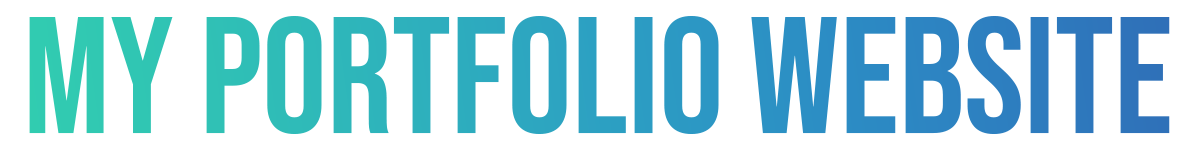
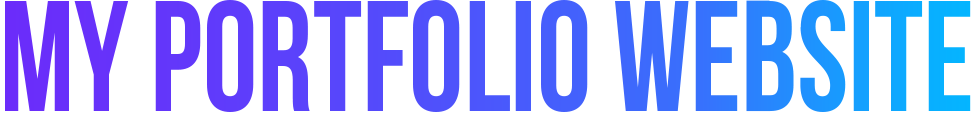
feat: navbar & home

diff --git a/src/styles/pages/_home.scss b/src/styles/pages/_home.scss
@@ -1,0 +1,98 @@
+.home__container {
+    width: 100%;
+    height: 100%;
+
+    background: transparent;
+    backdrop-filter: blur(10px);
+
+    display: flex;
+    justify-content: center;
+    align-items: center;
+
+    .home__content {
+        width: 70%;
+        height: 100%;
+
+        display: flex;
+        flex-direction: column;
+        justify-content: center;
+        text-transform: uppercase;
+
+        .home---name {
+            font-size: 93px;
+            line-height: 100px;
+            text-indent: -4px;
+        }
+
+        .home---text {
+            font-size: 55px;
+        }
+
+        .content__item {
+            display: flex;
+            align-items: center;
+            margin-top: 20px;
+
+            .item__3D-container {
+                position: relative; 
+                margin-left: 20px;
+                perspective: 1000;
+                transform-style: preserve-3d;                
+                animation: rotate 8s ease-in infinite;
+              
+                @keyframes rotate {
+                    0% {
+                        transform: rotateX(0deg);
+                    }
+                    25% {
+                        transform: rotateX(90deg);
+                    }
+                    50% {
+                        transform: rotateX(180deg);
+                    }
+                    75% {
+                        transform: rotateX(270deg);
+                    }
+                    100% {
+                        transform: rotateX(360deg);
+                    }
+                }
+              
+                div {
+                    display: flex;
+                    justify-content: center;
+                    align-items: center;
+                    position: absolute;
+                    height: 50px;
+                    width: 295px;
+                    padding: 10px 30px;
+                    margin: -35px 0;
+                    text-align: center;
+                    font-size: 50px;
+                    cursor: default;
+                    &:nth-child(1) {
+                        transform: rotateX(360deg) translateZ(35px);
+                        background: #6B2CFA;
+                    }
+                    
+                    &:nth-child(2) {
+                        transform: rotateX(270deg) translateZ(35px);
+                        background: #3a6efc;
+                    }
+                    
+                    &:nth-child(3) {
+                        transform: rotateX(180deg) translateZ(35px);
+                        background: #1b97fe;
+                    }
+                    
+                    &:nth-child(4) {
+                        transform: rotateX(90deg) translateZ(35px);
+                        background: #04b5ff;
+                    }                
+                }              
+            } 
+        }
+              
+    }
+    
+}

diff --git a/src/pages/Portfolio.js b/src/pages/Portfolio.js
@@ -1,0 +1,36 @@
+import React, { useEffect, useState, useRef } from "react";
+
+import Home from "./subpages/Home";
+import Content from "./subpages/Content";
+import Navbar from "../components/navigation/Navbar";
+
+const Portfolio = () => {
+
+    const home = useRef(null);
+
+    const onScroll = () => {
+        window.removeEventListener('scroll', onScroll);
+        let x = document.scrollTop;
+        x = 6-x/50;
+        if(x<0) x=0;
+        console.log(x);
+        // home.current.style.backdrop-filter = "blur("+x+"px)";
+        window.addEventListener('scroll', onScroll);
+    }
+    return (
+        <>
+            <Navbar />
+            <div className="section__container" onScroll={() => onScroll()}>
+                <section className="section">
+                    <Home home={home}/>
+                </section>
+
+                <section className="section">
+                    <Content />
+                </section>
+            </div>
+        </>
+    )
+}
+
+export default Portfolio;

diff --git a/src/pages/subpages/Home.js b/src/pages/subpages/Home.js
@@ -1,0 +1,25 @@
+import React from 'react';
+import Button from '../../components/generics/Button';
+
+const Home = ({home}) => {
+    return (
+        <div className="home__container" ref={home}>
+            <div className="home__content">
+                <p className="bold home---text">Hi my name is</p>
+                <p className="bold home---name">Malek.</p>
+                <div className="content__item">
+                    <p className="bold home---text">I'm a</p>
+                    <div className="item__3D-container">
+                        <div className="bold">Developer</div>
+                        <div className="bold">Designer</div>
+                        <div className="bold">TECH FAN</div>
+                        <div className="bold">Freelancer</div>
+                    </div>
+                </div>
+                <Button text="About me" onClick={() => console.log("e")}/>
+            </div>
+        </div>
+    );
+};
+
+export default Home;

diff --git a/src/styles/_settings.scss b/src/styles/_settings.scss
@@ -1,0 +1,40 @@
+@import url('https://fonts.googleapis.com/css2?family=Open+Sans:wght@300;400;500;600;700;800&display=swap');
+
+$color-purple: #6b2cfa;
+$color-blured-purple: rgba(107, 44, 250, 50%);
+$color-blue: #04b5ff;
+$color-dark: #0b0000;
+$font: 'Open Sans', sans-serif;
+
+* {
+    margin: 0;
+    padding: 0;
+    font-family: $font;
+    color: white;
+
+    &::selection {
+        background-color: $color-purple;
+    }
+}
+
+.App,
+#root {
+    width: 100%;
+    height: 100%;
+}
+
+body {
+    background: url(../assets/Background.png) no-repeat center center fixed;
+    -moz-background-size: cover;
+    -webkit-background-size: cover;
+    -o-background-size: cover;
+    background-size: cover;   
+
+
+    -ms-overflow-style: none;  // IE 10+
+    overflow: -moz-scrollbars-none;  // Firefox
+
+    &::-webkit-scrollbar {
+        display: none; // Safari and Chrome
+    }
+}

diff --git a/src/styles/components/_generics.scss b/src/styles/components/_generics.scss
@@ -1,0 +1,42 @@
+.button {
+    display: flex;
+    justify-content: center;
+    align-items: center;
+
+    width: fit-content;
+    height: 50px;
+
+    padding: 0 35px;
+
+    background: $color-blured-purple;
+    backdrop-filter: blur(50px);
+
+    font-weight: 400;
+
+    border: 1px solid rgba(255, 255, 255, 28%);
+    border-radius: 50px;
+
+    cursor: pointer;   
+}
+
+.bold {
+    font-weight: bold;
+}
+
+section {
+    width: 100vw;
+    height: 100vh;
+    scroll-snap-align: start;
+}
+
+.section__container {
+    height: 100vh;
+    scroll-snap-type: y mandatory;
+    overflow-y: scroll;
+    -ms-overflow-style: none;  // IE 10+
+    overflow: -moz-scrollbars-none;  // Firefox
+
+    &::-webkit-scrollbar {
+        display: none; // Safari and Chrome
+    }
+}

diff --git a/src/styles/components/navigation/_navbar.scss b/src/styles/components/navigation/_navbar.scss
@@ -1,0 +1,36 @@
+.nav__container {
+    display: flex;
+    align-items: center;
+
+    position: fixed;
+    z-index: 999;
+    width: 100%;
+    height: 10%;
+
+    .nav__logo {
+        font-size: 36px;
+        font-weight: 700;
+        
+        cursor: pointer;
+        margin-left: 140px;
+    }
+
+    .nav__items {
+        display: flex;
+        align-items: center;
+        justify-content: space-between;
+        
+        margin-left: auto;
+        margin-right: 140px;
+
+        width: 480px;
+        height: 100%;        
+        
+        .nav__item {
+            font-size: 18px;
+            font-weight: 400;
+
+            cursor: pointer;        
+        }       
+    }
+}

diff --git a/src/components/navigation/Navbar.js b/src/components/navigation/Navbar.js
@@ -1,0 +1,18 @@
+import React from 'react';
+import Button from '../generics/Button';
+
+const Navbar = () => {
+    return (
+        <nav className="nav__container">
+            <div className="nav__logo">&lt;/&gt;</div>
+            <div className="nav__items">
+                <div className="nav__item">Home</div>
+                <div className="nav__item">About</div>
+                <div className="nav__item">Portfolio</div>
+                <Button text={"Contact me"} onClick={() => console.log("")} />
+            </div>
+        </nav>
+    );
+};
+
+export default Navbar;

diff --git a/src/App.js b/src/App.js
@@ -1,15 +1,14 @@
 import React from 'react';
 import { BrowserRouter, Route, Routes } from 'react-router-dom';
 import FourOhFour from './pages/FourOhFour';
-import Home from './pages/Home';
+import Portfolio from './pages/Portfolio';
 
 const App = () => {
   return (
-    <div>
+    <div className="App">
       <BrowserRouter>
       <Routes>
-        <Route path="/" element={<Home />} />
-        <Route path="/" element={<Home />} />
+        <Route path="/" element={<Portfolio />} />
         <Route path="*" element={<FourOhFour />} />
       </Routes>
       </BrowserRouter>

diff --git a/src/pages/subpages/Content.js b/src/pages/subpages/Content.js
@@ -1,0 +1,11 @@
+import React from "react";
+
+const Content = ({content}) => {
+    return (
+        <div className="content__container" ref={content}>
+            blabla
+        </div>
+    );
+}
+
+export default Content;

diff --git a/src/components/generics/Button.js b/src/components/generics/Button.js
@@ -1,0 +1,11 @@
+import React from "react";
+
+const Button = ({text, onClick}) => {
+    return ( 
+        <div className="button" onClick={onClick}>
+            {text}
+        </div>
+    );
+}
+
+export default Button;

diff --git a/src/styles/index.scss b/src/styles/index.scss
@@ -1,0 +1,5 @@
+@import "./settings";
+@import "./components/generics";
+@import "./components/navigation/navbar";
+@import "./pages/home";
+@import "./pages/content";

diff --git a/src/styles/pages/_content.scss b/src/styles/pages/_content.scss
@@ -1,0 +1,7 @@
+.content__container {
+    width: 100%;
+    height: 100%;
+    display: flex;
+    align-items: center;
+    justify-content: center;
+}
